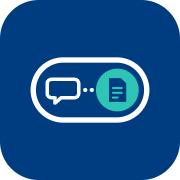
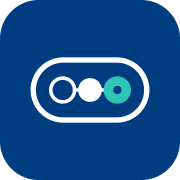
Identidade por area: Ecossistema, Carteira Ativa, Minhas Financas e Compromissos (v23)

Changed region(s): [[0.25, 0.3611, 0.7778, 0.6389]]

diff --git a/carteira-w3g.html b/carteira-w3g.html
@@ -3,19 +3,19 @@
 <head>
 <meta charset="UTF-8">
 <meta name="viewport" content="width=device-width, initial-scale=1.0, viewport-fit=cover">
-<title>Carteira Ativa · Grupo W3G</title>
-<meta name="description" content="Carteira de corretores — supervisor Kalyl Soares">
+<title>Ecossistema</title>
+<meta name="description" content="Ecossistema pessoal: Carteira Ativa (Grupo W3G), Minhas Finanças e Compromissos">
 <meta name="theme-color" content="#003C80" media="(prefers-color-scheme: light)">
 <meta name="theme-color" content="#061A33" media="(prefers-color-scheme: dark)">
-<meta name="apple-mobile-web-app-title" content="Carteira Ativa">
+<meta name="apple-mobile-web-app-title" content="Ecossistema">
 <meta name="apple-mobile-web-app-capable" content="yes">
 <meta name="mobile-web-app-capable" content="yes">
 <meta name="apple-mobile-web-app-status-bar-style" content="black-translucent">
-<link rel="icon" type="image/svg+xml" href="assets/favicon.svg?v=2">
-<link rel="icon" type="image/png" sizes="32x32" href="assets/favicon-32.png?v=2">
-<link rel="icon" type="image/png" sizes="16x16" href="assets/favicon-16.png?v=2">
-<link rel="apple-touch-icon" sizes="180x180" href="assets/apple-touch-icon.png?v=2">
-<link rel="manifest" href="manifest.webmanifest">
+<link rel="icon" id="fav-svg" type="image/svg+xml" href="assets/favicon.svg?v=3">
+<link rel="icon" id="fav-png" type="image/png" sizes="32x32" href="assets/favicon-32.png?v=3">
+<link rel="icon" type="image/png" sizes="16x16" href="assets/favicon-16.png?v=3">
+<link rel="apple-touch-icon" sizes="180x180" href="assets/apple-touch-icon.png?v=3">
+<link rel="manifest" href="manifest.webmanifest?v=3">
 <link rel="preconnect" href="https://fonts.googleapis.com">
 <link rel="preconnect" href="https://fonts.gstatic.com" crossorigin>
 <link href="https://fonts.googleapis.com/css2?family=Jost:wght@300;400;500;600;700&family=Figtree:wght@400;500;600;700;800&family=Azeret+Mono:wght@400;500;600&display=swap" rel="stylesheet">
@@ -27,7 +27,7 @@
     if (t !== "escuro") document.documentElement.setAttribute("data-tema", "claro"); // claro é o padrão
   })();
   // versão publicada: se o navegador abriu uma cópia antiga guardada, busca a nova sozinho
-  var VERSAO = "22";
+  var VERSAO = "23";
   (function () {
     if (!/^https?:$/.test(location.protocol)) return;
     try {
@@ -416,7 +416,7 @@ a{color:rgb(var(--c-primary-500))}a:hover{color:var(--ativa-turq-deep)}
 /* ---------- casca: rail lateral + cabeçalho ---------- */
 .wrap{max-width:2200px;margin:0;padding:14px 40px 48px calc(var(--rail-w) + 40px)}
 .nav{position:fixed;z-index:40;left:14px;top:14px;bottom:14px;width:var(--rail-w);margin:0;padding:96px 0 18px;display:flex;flex-direction:column;align-items:center;gap:6px;overflow:visible;background:var(--ativa-rail);border:0;border-radius:var(--r-xl);box-shadow:0 30px 60px -30px rgba(0,30,70,.55)}
-.nav::before{content:"";position:absolute;top:24px;left:50%;width:58px;height:32px;transform:translateX(-50%);background:url("assets/simbolo-fundo-escuro.svg") center/contain no-repeat}
+.nav::before{content:"";position:absolute;top:24px;left:50%;width:58px;height:32px;transform:translateX(-50%);background:url("assets/simbolo-ecossistema-fundo-escuro.svg") center/contain no-repeat}
 .nav-btn{flex-direction:column;justify-content:center;gap:5px;width:68px;height:62px;padding:0;border:0;border-radius:var(--r-md);background:transparent;color:rgb(var(--ativa-rail-ink) / .72);font:600 10.5px/1 var(--ativa-font-body);letter-spacing:0;position:relative;box-shadow:none}
 .nav-btn i{font-size:22px;margin:0!important}
 .nav-btn:hover{background:rgb(var(--ativa-rail-ink) / .1);color:#fff}
@@ -746,6 +746,7 @@ button.ag-row:hover{background:rgb(var(--c-paper))}
   .ag-side .card{padding:15px}
 }
 @media print{.nav,#ceu,#ag-toast{display:none}.wrap{padding:0}}
+.eco-login{display:flex;flex-direction:column;align-items:center;gap:6px;margin:0 0 14px;color:rgb(var(--c-primary))}.eco-login img{border-radius:22%;box-shadow:0 14px 30px -14px rgba(0,40,90,.55);margin-bottom:8px}.eco-login b{font:600 30px/1 var(--ativa-font-display);letter-spacing:-0.02em}
 </style>
 </head>
 <body>
@@ -3858,8 +3859,8 @@ function nuvemTelaLogin() {
   overlay.id = 'login-ov';
   overlay.style.alignItems = 'center';
   overlay.innerHTML = '<form class="modal" style="max-width:380px;" id="login-form"><div style="padding:1.8rem 1.6rem;">' +
-    '<div class="ativa-logo" aria-label="Carteira Ativa">' + document.querySelector('#brand-logo svg').outerHTML + '<span><b>carteira ativa</b><small>Grupo W3G</small></span></div>' +
-    '<p class="hint" style="margin:0 0 1.2rem;">Entre para carregar a sua carteira.</p>' +
+    '<div class="eco-login"><img src="assets/icone-app.svg?v=3" alt="" width="72" height="72"><b>ecossistema</b></div>' +
+    '<p class="hint" style="margin:0 0 1.2rem; text-align:center;">Entre com seu e-mail e senha.</p>' +
     '<label>E-mail</label><input type="email" id="login-email" autocomplete="username" required style="margin-bottom:0.8rem;">' +
     '<label>Senha</label><input type="password" id="login-senha" autocomplete="current-password" required style="margin-bottom:1rem;">' +
     '<p id="login-erro" style="color:rgb(var(--c-alert)); font-size:13px; margin:0 0 0.8rem; display:none;"></p>' +
@@ -8962,5 +8963,57 @@ function updateDate(){
 try { if (typeof render === 'function') render(); } catch (e) {}
 </script>
 <!-- FINANCAS:FIM -->
+<script id="identidade-area">
+/* ====== IDENTIDADE POR ÁREA (Carteira Ativa · Minhas Finanças · Compromissos) ======
+   O app/PWA e o rail usam o ícone do ECOSSISTEMA (sem nome).
+   Aba do navegador (título + favicon) e logo do cabeçalho mudam conforme a área aberta. */
+(function () {
+  var AREAS = {
+    carteira:     { nome: 'carteira ativa',  titulo: 'Carteira Ativa',  selo: 'Grupo W3G', fav: 'carteira',     svg: "<svg viewBox=\"-10 -10 420 240\" aria-hidden=\"true\"><rect x=\"9\" y=\"9\" width=\"382\" height=\"202\" rx=\"101\" fill=\"none\" stroke=\"currentColor\" stroke-width=\"18\"/><path d=\"M70 74h78a14 14 0 0 1 14 14v34a14 14 0 0 1-14 14h-44l-22 18v-18h-12a14 14 0 0 1-14-14V88a14 14 0 0 1 14-14z\" fill=\"none\" stroke=\"currentColor\" stroke-width=\"12\" stroke-linejoin=\"round\"/><circle cx=\"184\" cy=\"110\" r=\"7\" fill=\"currentColor\"/><circle cx=\"206\" cy=\"110\" r=\"7\" fill=\"currentColor\"/><circle cx=\"292\" cy=\"110\" r=\"72\" fill=\"currentColor\"/><path d=\"M264 70h40l18 18v62h-58z\" fill=\"#2EC4B6\"/><rect x=\"274\" y=\"100\" width=\"36\" height=\"7\" rx=\"3.5\" fill=\"currentColor\"/><rect x=\"274\" y=\"116\" width=\"36\" height=\"7\" rx=\"3.5\" fill=\"currentColor\"/><rect x=\"274\" y=\"132\" width=\"22\" height=\"7\" rx=\"3.5\" fill=\"currentColor\"/></svg>" },
+    financas:     { nome: 'minhas finanças', titulo: 'Minhas Finanças', selo: '', fav: 'financas',     svg: "<svg viewBox=\"-10 -10 420 240\" aria-hidden=\"true\"><rect x=\"9\" y=\"9\" width=\"382\" height=\"202\" rx=\"101\" fill=\"none\" stroke=\"currentColor\" stroke-width=\"18\"/><rect x=\"70\" y=\"116\" width=\"22\" height=\"34\" rx=\"5\" fill=\"currentColor\"/><rect x=\"102\" y=\"96\" width=\"22\" height=\"54\" rx=\"5\" fill=\"currentColor\"/><rect x=\"134\" y=\"72\" width=\"22\" height=\"78\" rx=\"5\" fill=\"currentColor\"/><circle cx=\"292\" cy=\"110\" r=\"72\" fill=\"currentColor\"/><path d=\"M254 140l28-28 18 16 32-34\" fill=\"none\" stroke=\"#2EC4B6\" stroke-width=\"12\" stroke-linecap=\"round\" stroke-linejoin=\"round\"/><path d=\"M310 90h24v24\" fill=\"none\" stroke=\"#2EC4B6\" stroke-width=\"12\" stroke-linecap=\"round\" stroke-linejoin=\"round\"/></svg>" },
+    compromissos: { nome: 'compromissos',    titulo: 'Compromissos',    selo: '', fav: 'compromissos', svg: "<svg viewBox=\"-10 -10 420 240\" aria-hidden=\"true\"><rect x=\"9\" y=\"9\" width=\"382\" height=\"202\" rx=\"101\" fill=\"none\" stroke=\"currentColor\" stroke-width=\"18\"/><circle cx=\"114\" cy=\"110\" r=\"42\" fill=\"none\" stroke=\"currentColor\" stroke-width=\"12\"/><path d=\"M114 86v24l18 10\" fill=\"none\" stroke=\"currentColor\" stroke-width=\"12\" stroke-linecap=\"round\" stroke-linejoin=\"round\"/><circle cx=\"292\" cy=\"110\" r=\"72\" fill=\"currentColor\"/><rect x=\"258\" y=\"80\" width=\"68\" height=\"62\" rx=\"10\" fill=\"#2EC4B6\"/><rect x=\"270\" y=\"68\" width=\"9\" height=\"22\" rx=\"4.5\" fill=\"#2EC4B6\"/><rect x=\"305\" y=\"68\" width=\"9\" height=\"22\" rx=\"4.5\" fill=\"#2EC4B6\"/><rect x=\"258\" y=\"94\" width=\"68\" height=\"6\" fill=\"currentColor\"/><rect x=\"268\" y=\"108\" width=\"11\" height=\"10\" rx=\"2.5\" fill=\"currentColor\"/><rect x=\"287\" y=\"108\" width=\"11\" height=\"10\" rx=\"2.5\" fill=\"currentColor\"/><rect x=\"306\" y=\"108\" width=\"11\" height=\"10\" rx=\"2.5\" fill=\"currentColor\"/><rect x=\"268\" y=\"124\" width=\"11\" height=\"10\" rx=\"2.5\" fill=\"currentColor\"/><rect x=\"287\" y=\"124\" width=\"11\" height=\"10\" rx=\"2.5\" fill=\"currentColor\"/></svg>" }
+  };
+  // Ajuste os nomes das abas se forem diferentes no seu código.
+  function areaDaAba(tab) {
+    tab = String(tab || '').toLowerCase();
+    if (/financ/.test(tab)) return 'financas';
+    if (/agend|compromis/.test(tab)) return 'compromissos';
+    return 'carteira'; // dashboard, pipeline, followup, carteira, relatorio, lixeira…
+  }
+  var atual = null;
+  window.aplicarArea = function (area) {
+    var a = AREAS[area] || AREAS.carteira;
+    document.documentElement.setAttribute('data-area', area);
+    document.title = a.selo ? a.titulo + ' · ' + a.selo : a.titulo; // só a Carteira Ativa é W3G
+    if (atual === area) return; atual = area;
+    var s = document.getElementById('fav-svg'), p = document.getElementById('fav-png');
+    if (s) s.href = 'assets/favicon-' + a.fav + '.svg';
+    if (p) p.href = 'assets/favicon-' + a.fav + '-32.png';
+    var logo = document.getElementById('brand-logo');
+    if (logo) { logo.setAttribute('aria-label', a.titulo); logo.innerHTML = a.svg + '<span><b>' + a.nome + '</b>' + (a.selo ? '<small>' + a.selo + '</small>' : '') + '</span>'; }
+  };
+  function bloqueado() { return !!document.getElementById('login-ov') || document.body.classList.contains('bloqueado'); }
+  function aplicarEcossistema() {
+    document.documentElement.setAttribute('data-area', 'ecossistema');
+    document.title = 'Ecossistema';
+    var s = document.getElementById('fav-svg'), p = document.getElementById('fav-png');
+    if (s) s.href = 'assets/favicon.svg';
+    if (p) p.href = 'assets/favicon-32.png';
+    atual = null; // força reaplicar a área depois do login
+  }
+  function sync() { try { if (bloqueado()) return aplicarEcossistema(); aplicarArea(areaDaAba(typeof activeTab !== 'undefined' ? activeTab : '')); } catch (e) {} }
+  new MutationObserver(function () { sync(); }).observe(document.body, { childList: true, attributes: true, attributeFilter: ['class'] });
+  if (typeof window.render === 'function') { var _r = window.render; window.render = function () { var o = _r.apply(this, arguments); sync(); return o; }; }
+  document.addEventListener('click', function () { setTimeout(sync, 0); }, true);
+  // atalhos do ícone do app (manifest): abre direto na área pedida
+  try {
+    var h = (location.hash || '').toLowerCase();
+    if (h === '#financas') activeTab = 'financas';
+    else if (h === '#compromissos') activeTab = 'agenda';
+    if (h === '#financas' || h === '#compromissos') { history.replaceState(null, '', location.pathname + location.search); if (typeof render === 'function') render(); }
+  } catch (e) {}
+  sync();
+})();
+</script>
 </body>
 </html>

diff --git a/index.html b/index.html
@@ -3,13 +3,13 @@
 <head>
 <meta charset="UTF-8">
 <meta http-equiv="refresh" content="0; url=carteira-w3g.html">
-<title>Carteira Ativa · Grupo W3G</title>
-<link rel="icon" type="image/svg+xml" href="assets/favicon.svg?v=2">
-<link rel="icon" type="image/png" sizes="32x32" href="assets/favicon-32.png?v=2">
-<link rel="apple-touch-icon" sizes="180x180" href="assets/apple-touch-icon.png?v=2">
+<title>Ecossistema</title>
+<link rel="icon" type="image/svg+xml" href="assets/favicon.svg?v=3">
+<link rel="icon" type="image/png" sizes="32x32" href="assets/favicon-32.png?v=3">
+<link rel="apple-touch-icon" sizes="180x180" href="assets/apple-touch-icon.png?v=3">
 <link rel="manifest" href="manifest.webmanifest">
 </head>
 <body>
-<p><a href="carteira-w3g.html">Abrir a Carteira Ativa</a></p>
+<p><a href="carteira-w3g.html">Abrir o Ecossistema</a></p>
 </body>
 </html>
